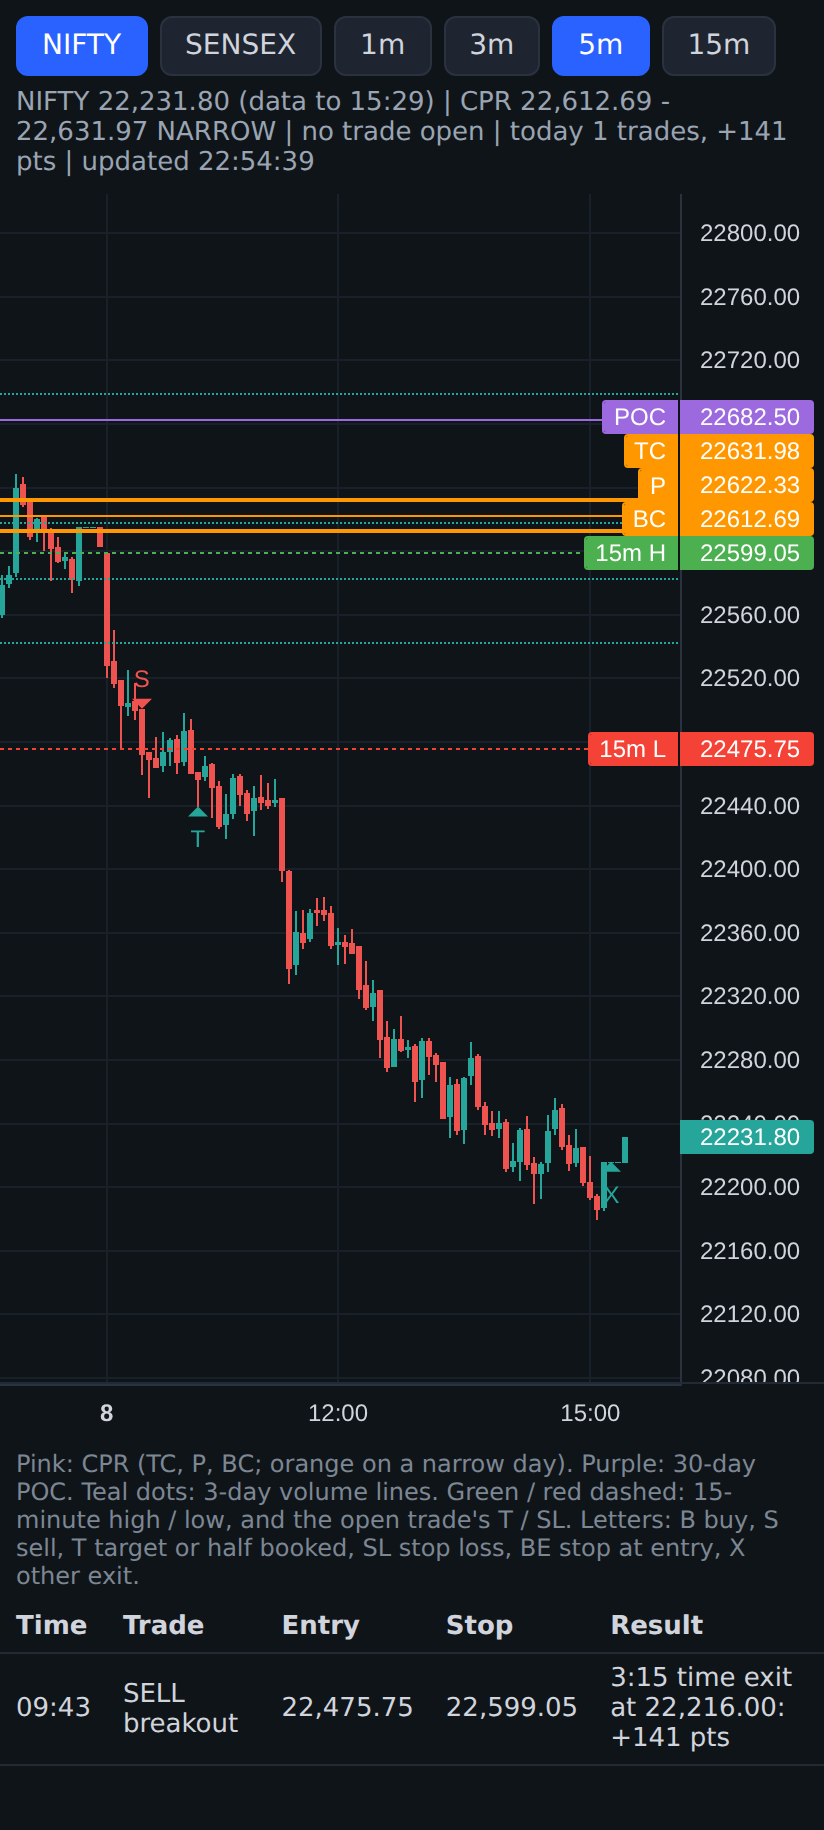
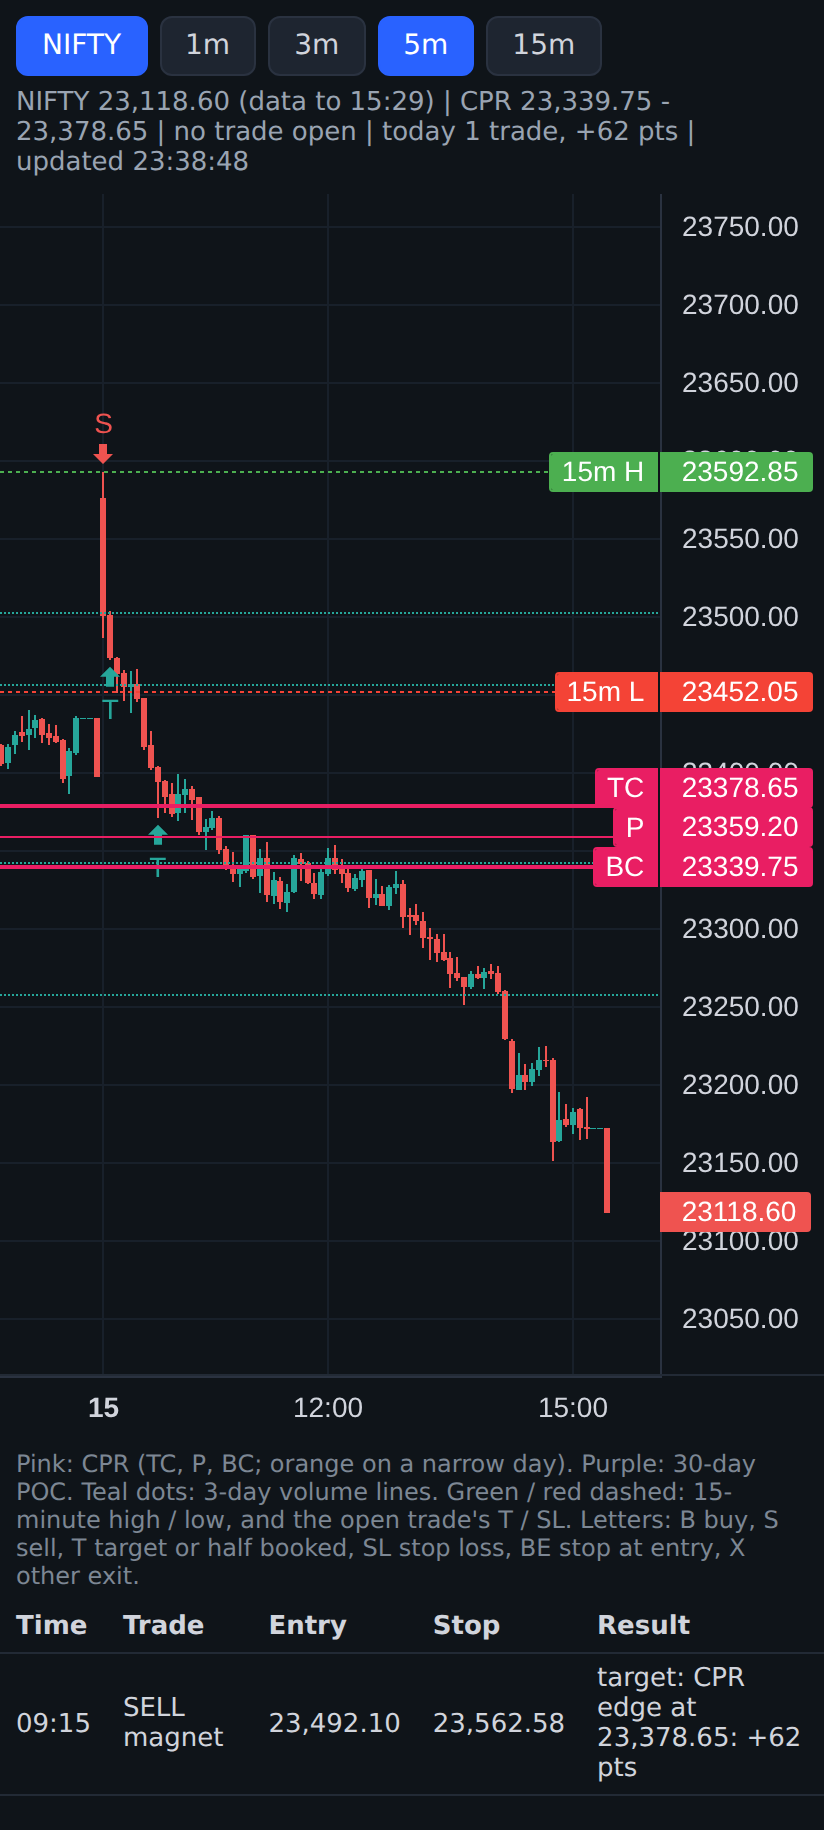
Bigger trade marks: letters in small coloured tags, size in Settings
The indicator's B / S / T / SL / BE / X marks are now in coloured tags at
normal size (Settings: small / normal / large / huge, or the letter only).
The phone chart's marks and text are larger too.

Claude-Session: https://claude.ai/code/session_01AGVU4tJ1NHm4Zt7sGSBpjS

diff --git a/trading-system/alerts/cprb_alerts.py b/trading-system/alerts/cprb_alerts.py
@@ -642,7 +642,7 @@ SL stop loss, BE stop at entry, X other exit.</div>
 const IDX = %INDICES%; let cur = IDX[0][0], tf = 5, plines = [], lastKey = '', fitted = '';
 const box = document.getElementById('c');
 if (!window.LightweightCharts) document.getElementById('bar').textContent = 'The chart library did not load: check the internet connection and reload.';
-const chart = LightweightCharts.createChart(box, {layout: {background: {color: '#0f1419'}, textColor: '#d1d4dc'},
+const chart = LightweightCharts.createChart(box, {layout: {background: {color: '#0f1419'}, textColor: '#d1d4dc', fontSize: 14},
   grid: {vertLines: {color: '#18202a'}, horzLines: {color: '#18202a'}}, rightPriceScale: {borderColor: '#2a3240'},
   timeScale: {timeVisible: true, secondsVisible: false, borderColor: '#2a3240', rightOffset: 6}, crosshair: {mode: 0},
   localization: {locale: 'en-IN'}});
@@ -673,7 +673,7 @@ async function load() {
   catch (e) { document.getElementById('st').textContent = 'The program is not running: start it in Pydroid 3.'; return; }
   if (!d.day) return;
   s.setData(agg(d.day, d.candles, agg(d.yday_date, d.yday, [])));
-  s.setMarkers(d.marks.map(k => ({time: ts(d.day, bucket(k.m)), position: k.pos, color: k.c, shape: k.pos === 'belowBar' ? 'arrowUp' : 'arrowDown', size: 0.4, text: k.x})));
+  s.setMarkers(d.marks.map(k => ({time: ts(d.day, bucket(k.m)), position: k.pos, color: k.c, shape: k.pos === 'belowBar' ? 'arrowUp' : 'arrowDown', size: 1.2, text: k.x})));
   const key = JSON.stringify(d.levels);
   if (key !== lastKey) { plines.forEach(p => s.removePriceLine(p)); lastKey = key;
     plines = d.levels.map(l => s.createPriceLine({price: l.p, color: l.c, lineWidth: l.w, lineStyle: l.s, axisLabelVisible: l.t !== '', title: l.t})); }

diff --git a/trading-system/tradingview/README.md b/trading-system/tradingview/README.md
@@ -34,7 +34,8 @@ File: [`cpr_breakout.pine`](cpr_breakout.pine). An indicator; reads 1-minute can
   width, so on a weekend you already see Monday's levels. (A CPR is fixed for its whole session: it comes from the
   previous day's high, low and close.) The value area lines are off by default.
 - Chart marks are small letters by the candles: **B** buy, **S** sell, **T** target or half booked, **SL** stop
-  loss, **BE** stop at entry, **X** any other exit. Tap a letter for the prices and points. Dashed red / green
+  loss, **BE** stop at entry, **X** any other exit, each in a small coloured tag (Settings: size small / normal /
+  large / huge, or the letter only). Tap a letter for the prices and points. Dashed red / green
   lines show the open trade's stop and target.
 - Every filter is in Settings. `research/quant/y2026_combo.py` has the same plan in Python.
 - **No live data on free TradingView?** [`alerts/cprb_alerts.py`](../alerts/cprb_alerts.py) runs the same rules on

diff --git a/trading-system/alerts/README.md b/trading-system/alerts/README.md
@@ -28,7 +28,7 @@ refreshes every 5 seconds; the program fetches new prices every 15 seconds. On a
 The chart library (TradingView's free open-source Lightweight Charts) is downloaded once and kept next to the
 program. `CHART = False` at the top switches the chart off.
 
-![The live chart on a phone, replaying 8 October 2026](chart-phone.png)
+![The live chart on a phone, replaying 15 September 2026](chart-phone.png)
 
 ## Set up once
 
